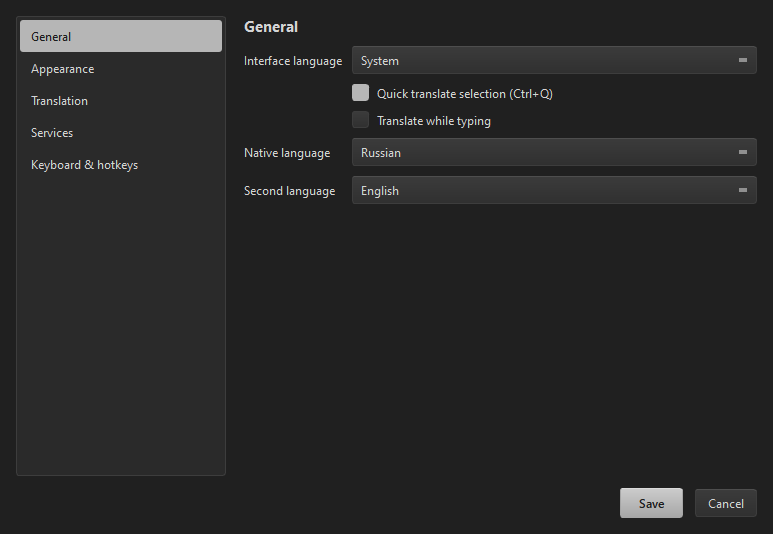
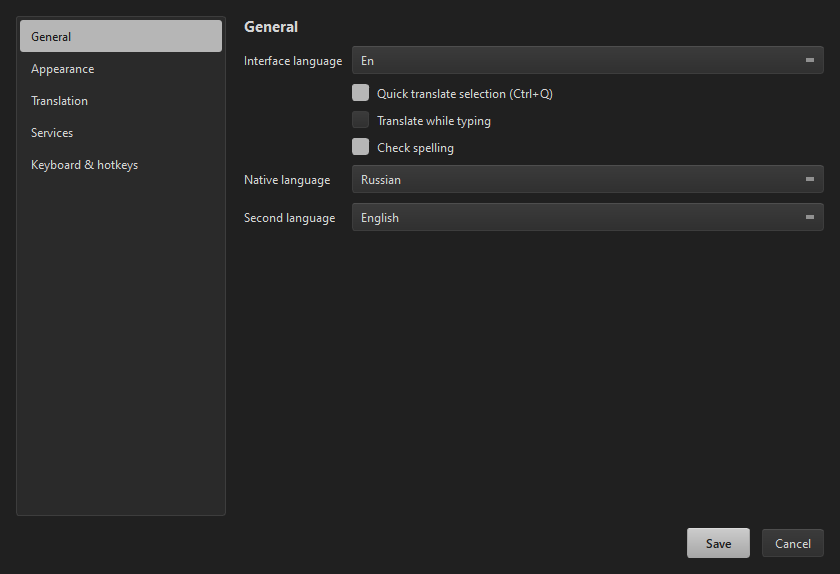
docs(site): add OCR, spell check and new translators

Changed region(s): [[0.031, 0.03, 0.9935, 0.3895], [0.7762, 0.8989, 0.9935, 0.9888]]

diff --git a/docs/index.html b/docs/index.html
@@ -4,7 +4,7 @@
 <meta charset="utf-8">
 <meta name="viewport" content="width=device-width, initial-scale=1">
 <title>QTranslate Remake — переводчик для Windows в один хоткей</title>
-<meta name="description" content="Настольный переводчик для Windows: выдели текст и нажми Ctrl+Q. Пять сервисов сразу, словарь, озвучка, перевод документов. Без API-ключей и аккаунтов.">
+<meta name="description" content="Настольный переводчик для Windows: выдели текст и нажми Ctrl+Q. Семь сервисов сразу, распознавание текста с экрана, проверка орфографии, словарь, озвучка и перевод документов. Без API-ключей и аккаунтов.">
 <meta name="theme-color" content="#171718">
 <link rel="canonical" href="https://awaynos.github.io/QTranslate-R/">
 <link rel="icon" href="images/app-icon.png" type="image/png">
@@ -14,12 +14,12 @@
 <meta property="og:locale" content="ru_RU">
 <meta property="og:site_name" content="QTranslate Remake">
 <meta property="og:title" content="QTranslate Remake — переводчик для Windows в один хоткей">
-<meta property="og:description" content="Выдели текст → Ctrl+Q → перевод от пяти сервисов, не переключая окно. Бесплатно, без API-ключей.">
+<meta property="og:description" content="Выдели текст → Ctrl+Q → перевод от семи сервисов, не переключая окно. OCR, проверка орфографии, бесплатно и без API-ключей.">
 <meta property="og:url" content="https://awaynos.github.io/QTranslate-R/">
 <meta property="og:image" content="https://awaynos.github.io/QTranslate-R/images/main-window.png">
 <meta name="twitter:card" content="summary_large_image">
 <meta name="twitter:title" content="QTranslate Remake — переводчик для Windows">
-<meta name="twitter:description" content="Выдели текст → Ctrl+Q → перевод от пяти сервисов. Бесплатно, без ключей.">
+<meta name="twitter:description" content="Выдели текст → Ctrl+Q → перевод от семи сервисов, OCR и проверка орфографии. Бесплатно, без ключей.">
 <meta name="twitter:image" content="https://awaynos.github.io/QTranslate-R/images/main-window.png">
 
 <script type="application/ld+json">
@@ -30,7 +30,7 @@
   "operatingSystem": "Windows 10, Windows 11",
   "applicationCategory": "UtilitiesApplication",
   "softwareVersion": "0.1.0 Alpha",
-  "description": "Настольный переводчик для Windows с быстрым переводом по Ctrl+Q, пятью сервисами, словарём, озвучкой и переводом документов.",
+  "description": "Настольный переводчик для Windows с быстрым переводом по Ctrl+Q, семью сервисами, распознаванием текста с экрана, проверкой орфографии, словарём, озвучкой и переводом документов.",
   "downloadUrl": "https://github.com/Awaynos/QTranslate-R/releases/download/v0.1.0-alpha/QTranslateRemake.exe",
   "codeRepository": "https://github.com/Awaynos/QTranslate-R",
   "license": "https://github.com/Awaynos/QTranslate-R/blob/main/LICENSE",
@@ -463,8 +463,8 @@
     <h1 class="reveal"><span class="grad">Перевод, который<br>всегда под рукой</span></h1>
     <p class="lede reveal">
       Настольный переводчик в духе QTranslate 6.10. Выделил текст — нажал
-      <kbd>Ctrl</kbd>+<kbd>Q</kbd> — понял. Пять сервисов сразу, без API-ключей
-      и без переключения окон.
+      <kbd>Ctrl</kbd>+<kbd>Q</kbd> — понял. Семь сервисов сразу, распознавание
+      текста с экрана и проверка орфографии — без API-ключей и без переключения окон.
     </p>
 
     <div class="cta reveal">
@@ -492,7 +492,7 @@
 
     <div class="shot-hero reveal">
       <div class="shot">
-        <img src="images/main-window.png" width="1038" height="878" alt="Главное окно QTranslate Remake: несколько переводчиков и панель обратного перевода" fetchpriority="high">
+        <img src="images/main-window.png" width="1040" height="880" alt="Главное окно QTranslate Remake: несколько переводчиков и панель обратного перевода" fetchpriority="high">
       </div>
       <img class="float-popup" src="images/quick-popup.png" alt="Быстрый перевод по Ctrl+Q" loading="lazy">
     </div>
@@ -501,10 +501,10 @@
   <!-- STATS -->
   <div class="wrap">
     <div class="stats reveal">
-      <div class="stat"><b>5</b><span>переводчиков сразу</span></div>
+      <div class="stat"><b>7</b><span>переводчиков сразу</span></div>
+      <div class="stat"><b>8</b><span>языков интерфейса</span></div>
       <div class="stat"><b>4</b><span>темы оформления</span></div>
       <div class="stat"><b>0</b><span>API-ключей</span></div>
-      <div class="stat"><b>100%</b><span>данные локально</span></div>
     </div>
   </div>
 
@@ -513,17 +513,19 @@
     <div class="wrap">
       <div class="eyebrow reveal">Возможности</div>
       <h2 class="reveal">Всё, что нужно от переводчика.<br>И ничего лишнего.</h2>
-      <p class="sub reveal">Никаких нейросетей, суммаризации и аккаунтов. Только перевод, словарь, озвучка и документы.</p>
+      <p class="sub reveal">Никаких нейросетей, суммаризации и аккаунтов. Только перевод, распознавание текста с экрана, проверка орфографии, словарь, озвучка и документы.</p>
 
       <div class="bento">
         <article class="card w3 reveal">
           <div class="ico">
             <svg width="19" height="19" viewBox="0 0 24 24" fill="none" stroke="currentColor" stroke-width="1.6" stroke-linecap="round" stroke-linejoin="round"><path d="m5 8 6 6M4 14l6-6 2-3M2 5h12M7 2h1M22 22l-5-10-5 10M14 18h6"/></svg>
           </div>
-          <h3>Пять переводчиков — один клик</h3>
+          <h3>Семь переводчиков — один клик</h3>
           <p>Каждый сервис отвечает отдельной карточкой: видно, кто как понял текст, и сколько это заняло миллисекунд.</p>
           <div class="chips">
             <span class="chip on">Google</span>
+            <span class="chip on">Bing</span>
+            <span class="chip on">DeepL</span>
             <span class="chip on">Yandex</span>
             <span class="chip on">Reverso</span>
             <span class="chip on">MyMemory</span>
@@ -540,6 +542,25 @@
           <div class="keys">
             <kbd class="key">Ctrl</kbd><kbd class="key">Q</kbd>
           </div>
+        </article>
+
+        <article class="card w3 reveal">
+          <div class="ico">
+            <svg width="19" height="19" viewBox="0 0 24 24" fill="none" stroke="currentColor" stroke-width="1.6" stroke-linecap="round" stroke-linejoin="round"><path d="M3 7V5a2 2 0 0 1 2-2h2M17 3h2a2 2 0 0 1 2 2v2M21 17v2a2 2 0 0 1-2 2h-2M7 21H5a2 2 0 0 1-2-2v-2M7 8h10M7 12h6M7 16h8"/></svg>
+          </div>
+          <h3>Ctrl+I — текст прямо с экрана</h3>
+          <p>Выдели область на экране — встроенный Windows OCR распознает текст, подставит его в поле ввода и сразу переведёт.</p>
+          <div class="keys">
+            <kbd class="key">Ctrl</kbd><kbd class="key">I</kbd>
+          </div>
+        </article>
+
+        <article class="card w3 reveal">
+          <div class="ico">
+            <svg width="19" height="19" viewBox="0 0 24 24" fill="none" stroke="currentColor" stroke-width="1.6" stroke-linecap="round" stroke-linejoin="round"><circle cx="12" cy="12" r="10"/><path d="m8 12 3 3 5-6"/></svg>
+          </div>
+          <h3>Проверка орфографии</h3>
+          <p>Ошибки подчёркиваются прямо при вводе, а по правому клику предлагаются варианты замены. Словари берутся из Windows.</p>
         </article>
 
         <article class="card w2 reveal">
@@ -608,7 +629,7 @@
       <div class="steps">
         <div class="step reveal"><div class="num">01</div><h3>Выдели текст</h3><p>В браузере, Word, Telegram, игре — где угодно.</p></div>
         <div class="step reveal"><div class="num">02</div><h3>Нажми Ctrl+Q</h3><p>Перевод появится у курсора. Хоткей можно переназначить.</p></div>
-        <div class="step reveal"><div class="num">03</div><h3>Читай и копируй</h3><p>Пять вариантов перевода — выбирай лучший, озвучивай, смотри историю.</p></div>
+        <div class="step reveal"><div class="num">03</div><h3>Читай и копируй</h3><p>Семь вариантов перевода — выбирай лучший, озвучивай, смотри историю.</p></div>
       </div>
     </div>
   </section>
@@ -635,7 +656,7 @@
         </figure>
         <figure class="reveal">
           <img src="images/settings-services.png" alt="Настройки сервисов" loading="lazy">
-          <figcaption>Сервисы: озвучка, словарь, LibreTranslate</figcaption>
+          <figcaption>Сервисы: озвучка, словарь, DeepL, LibreTranslate</figcaption>
         </figure>
         <figure class="reveal">
           <img src="images/settings-keyboard.png" alt="Настройка горячих клавиш" loading="lazy">
